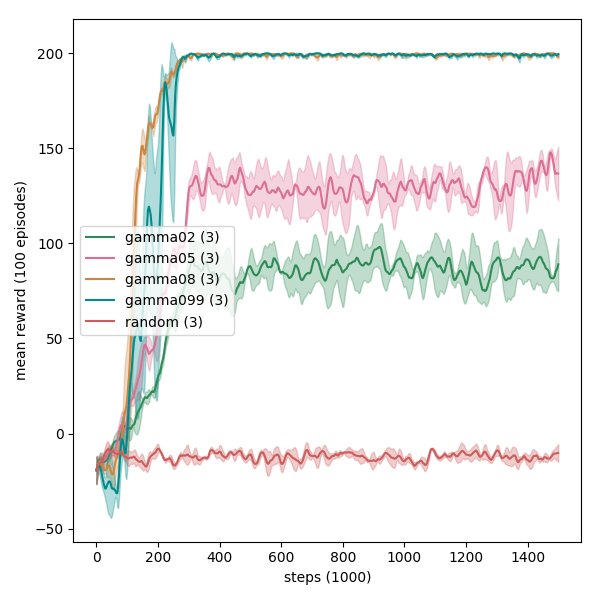
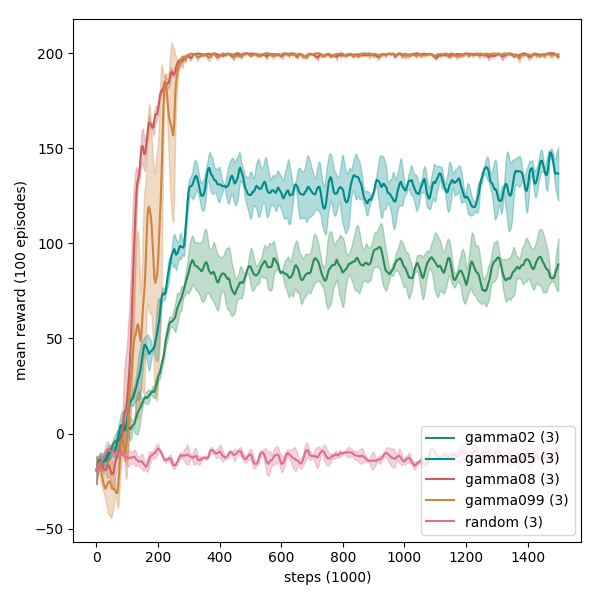
move legend to lower right

Changed region(s): [[0.15, 0.06, 0.96, 0.9], [0.15, 0.39, 0.18, 0.54]]

diff --git a/plot_util.py b/plot_util.py
@@ -168,7 +168,7 @@ def plot_results(
             ax.legend(
                 g2l.values(),
                 ['%s (%i)'%(g, g2c[g]) for g in g2l] if average_group else g2l.keys(),
-                loc=2 if legend_outside else None,
+                loc=2 if legend_outside else 4,
                 bbox_to_anchor=(1,1) if legend_outside else None)
         ax.set_title(sk)
         # add xlabels, but only to the bottom row
